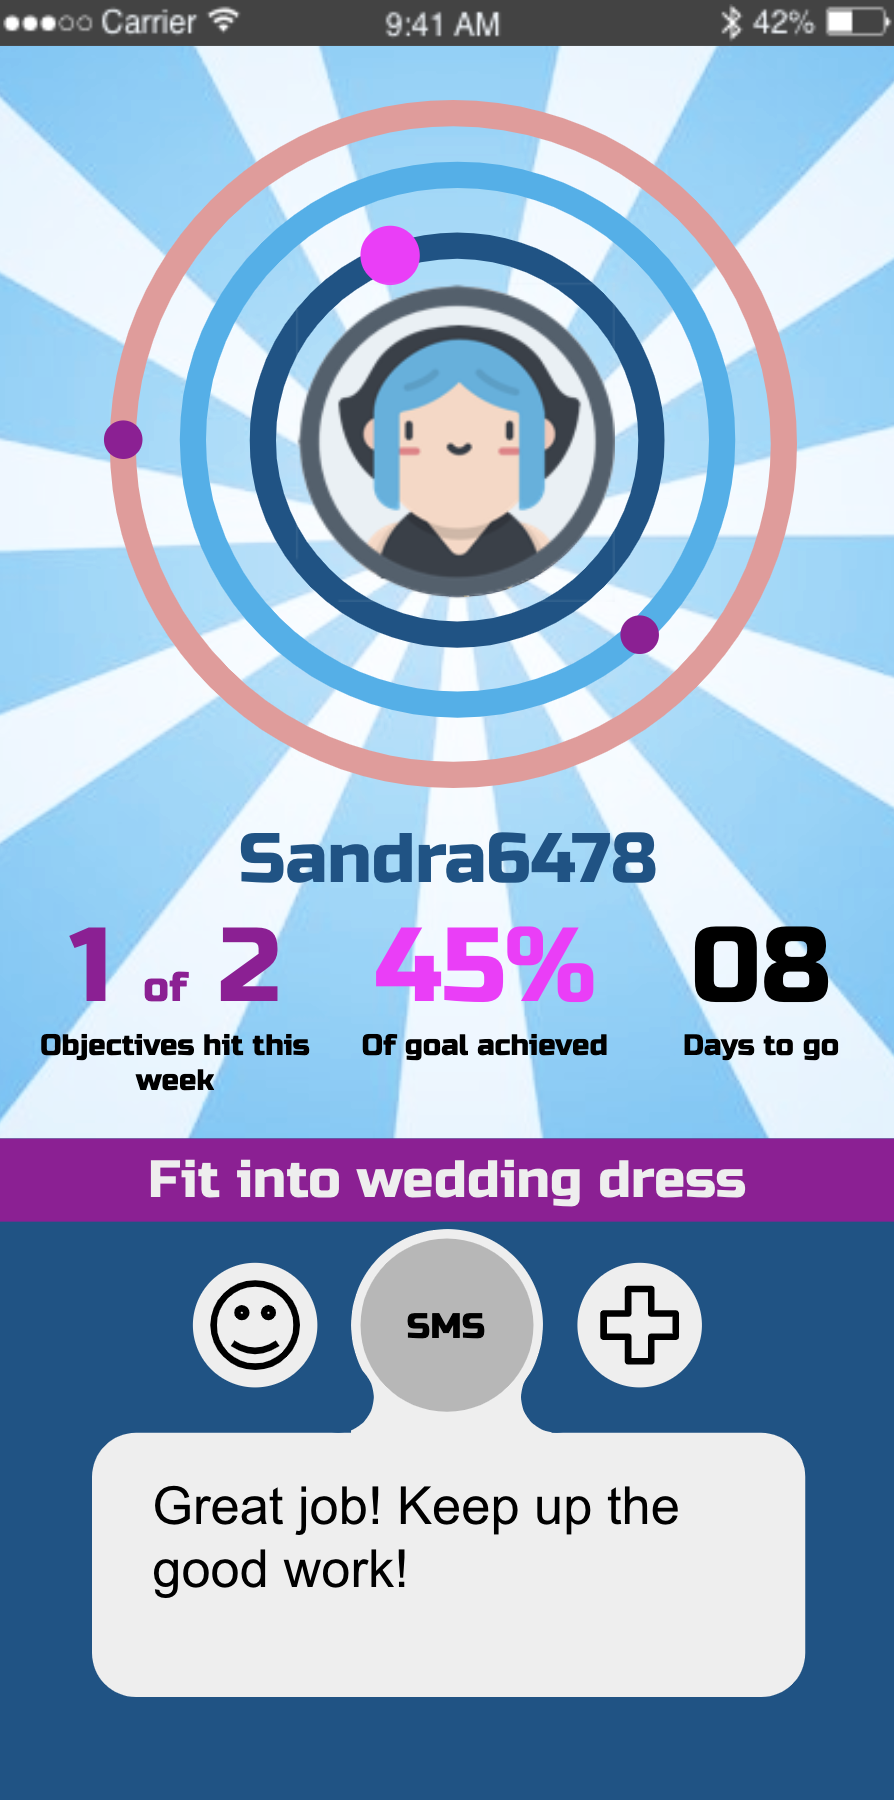
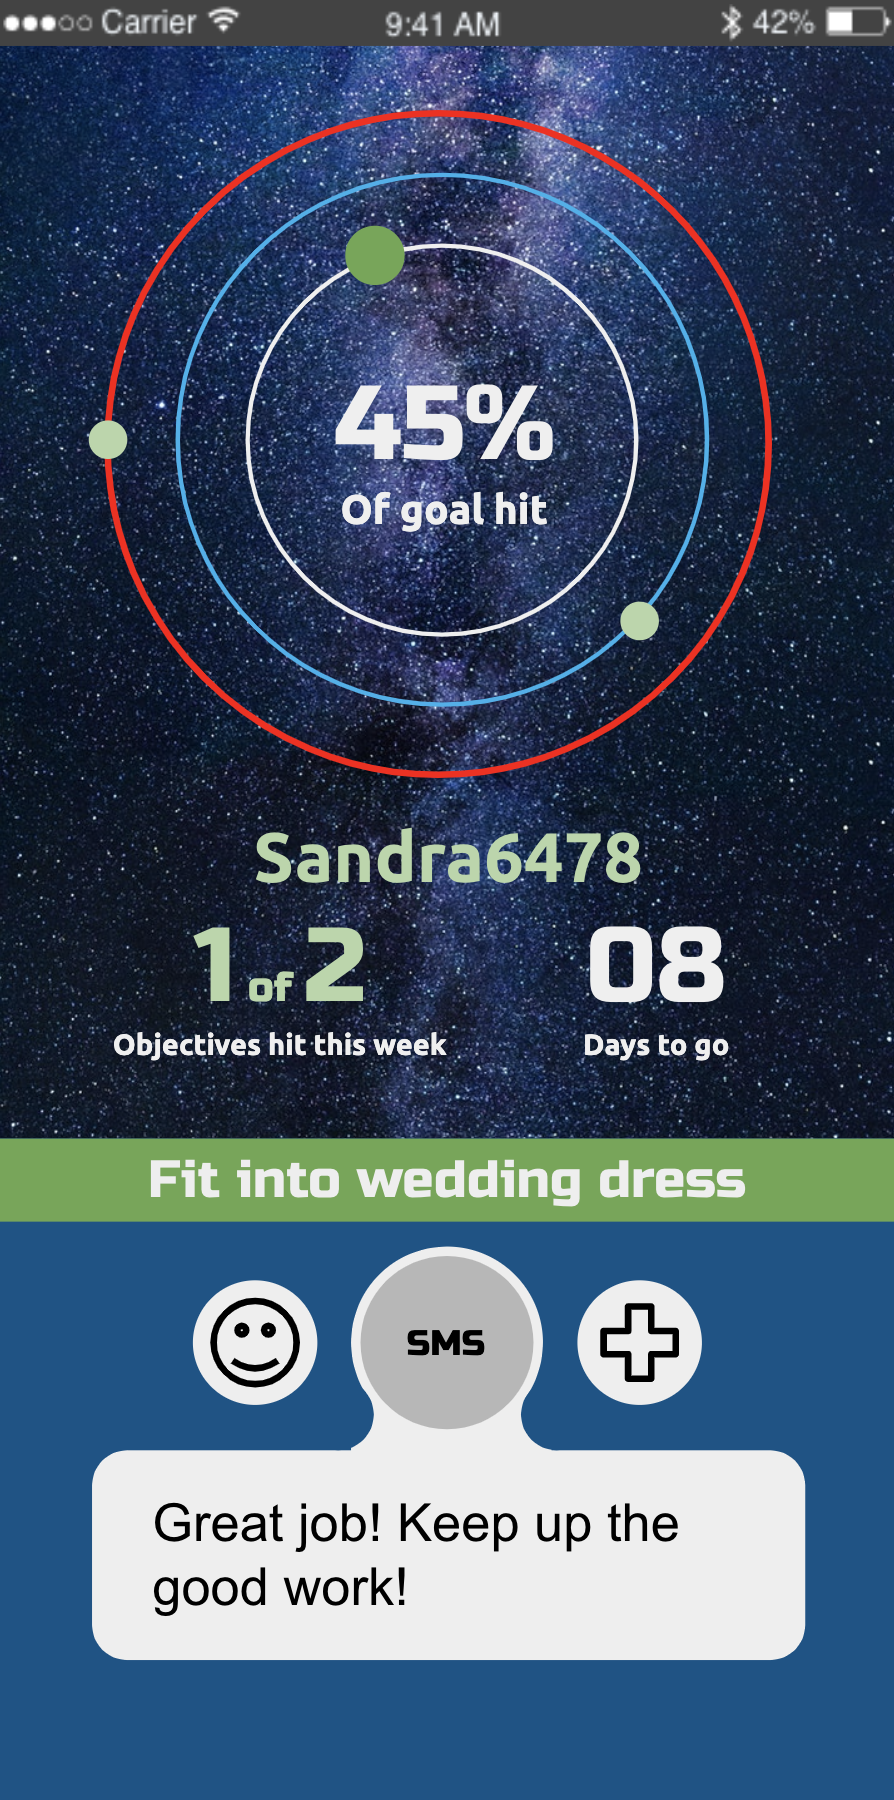
home page

diff --git a/src/App.css b/src/App.css
@@ -9,16 +9,9 @@
   border-radius: 0.6rem;
   border: none;
   font-size: 2.5rem;
-  background-color: #2bb0ed;
-  font-family: 'Russo One', sans-serif;
-  color: #fff;
-}
-
-.signup-btn:hover {
-  border: 1px solid #2bb0ed;
-  background-color: transparent;
-  color: #2bb0ed;
-  cursor: pointer;
+  background-color: #fff;
+  font-family: 'Ubuntu', sans-serif;
+  color: #000;
 }
 
 .login-btn {
@@ -28,20 +21,13 @@
   border-radius: 0.6rem;
   border: none;
   font-size: 2.5rem;
-  background-color: #2bb0ed;
+  background-color: #fff;
   font-family: 'Russo One', sans-serif;
-  color: #fff;
-}
-
-.login-btn:hover {
-  border: 1px solid #2bb0ed;
-  background-color: transparent;
-  color: #2bb0ed;
-  cursor: pointer;
+  color: #000;
 }
 
 #bottom-nav {
-  background-image: linear-gradient(to bottom right, #2bb0ed, #fff, #2bb0ed);
+  background-image: linear-gradient(to bottom right, #0b69a3, #fff, #0b69a3);
   background-size: cover;
   width: 100%;
   position: fixed;

diff --git a/src/components/home.js b/src/components/home.js
@@ -1,17 +1,12 @@
 import React, { Component } from 'react';
 import { NavLink } from 'react-router-dom';
+// import HomeImage from '../images/home.png';
 
 class Home extends Component {
   render() {
     return (
       <div>
-        <img
-          className="logo"
-          alt="logo"
-          width="400px"
-          height="350"
-          src="https://github.com/connka/accountabuddies/blob/master/src/images/Pactionlogo.png?raw=true"
-        />
+        {/* <img src={HomeImage} alt={'logo'} id="image" /> */}
         <p />
         <NavLink to={'/dashboard'}>
           <button className="signup-btn">SIGN UP</button>

diff --git a/public/index.html b/public/index.html
@@ -4,7 +4,7 @@
     <meta charset="utf-8" />
     <link rel="shortcut icon" href="%PUBLIC_URL%/favicon.ico" />
     <link rel="stylesheet" href="https://fonts.googleapis.com/icon?family=Material+Icons" />
-    <link href="https://fonts.googleapis.com/css?family=Russo+One&display=swap" rel="stylesheet" />
+    <link href="https://fonts.googleapis.com/css?family=Ubuntu&display=swap" rel="stylesheet" />
     <meta name="viewport" content="width=device-width, initial-scale=1" />
     <meta name="theme-color" content="#000000" />
     <!--

diff --git a/src/index.css b/src/index.css
@@ -7,5 +7,7 @@ body {
   font-family: 'Russo One', sans-serif;
   font-size: 36px;
   color: #2bb0ed;
-  background-image: linear-gradient(to bottom right, #2bb0ed, #fff, #2bb0ed);
+  background-image: url('./images/home.png');
+  background: cover;
+  /* background-image: linear-gradient(to bottom right, #2bb0ed, #fff, #2bb0ed); */
 }
